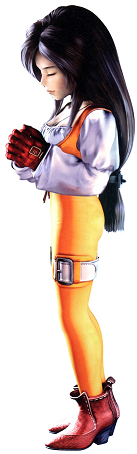
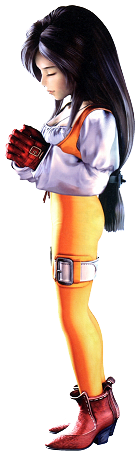
CSS update

diff --git a/CSS/style.css b/CSS/style.css
@@ -212,7 +212,7 @@ hr {
     box-shadow: black 3px 3px 5px;
 }
 .character-image {
-    height: 100%;
+    height: 230px;
     width: auto;
 }
 
